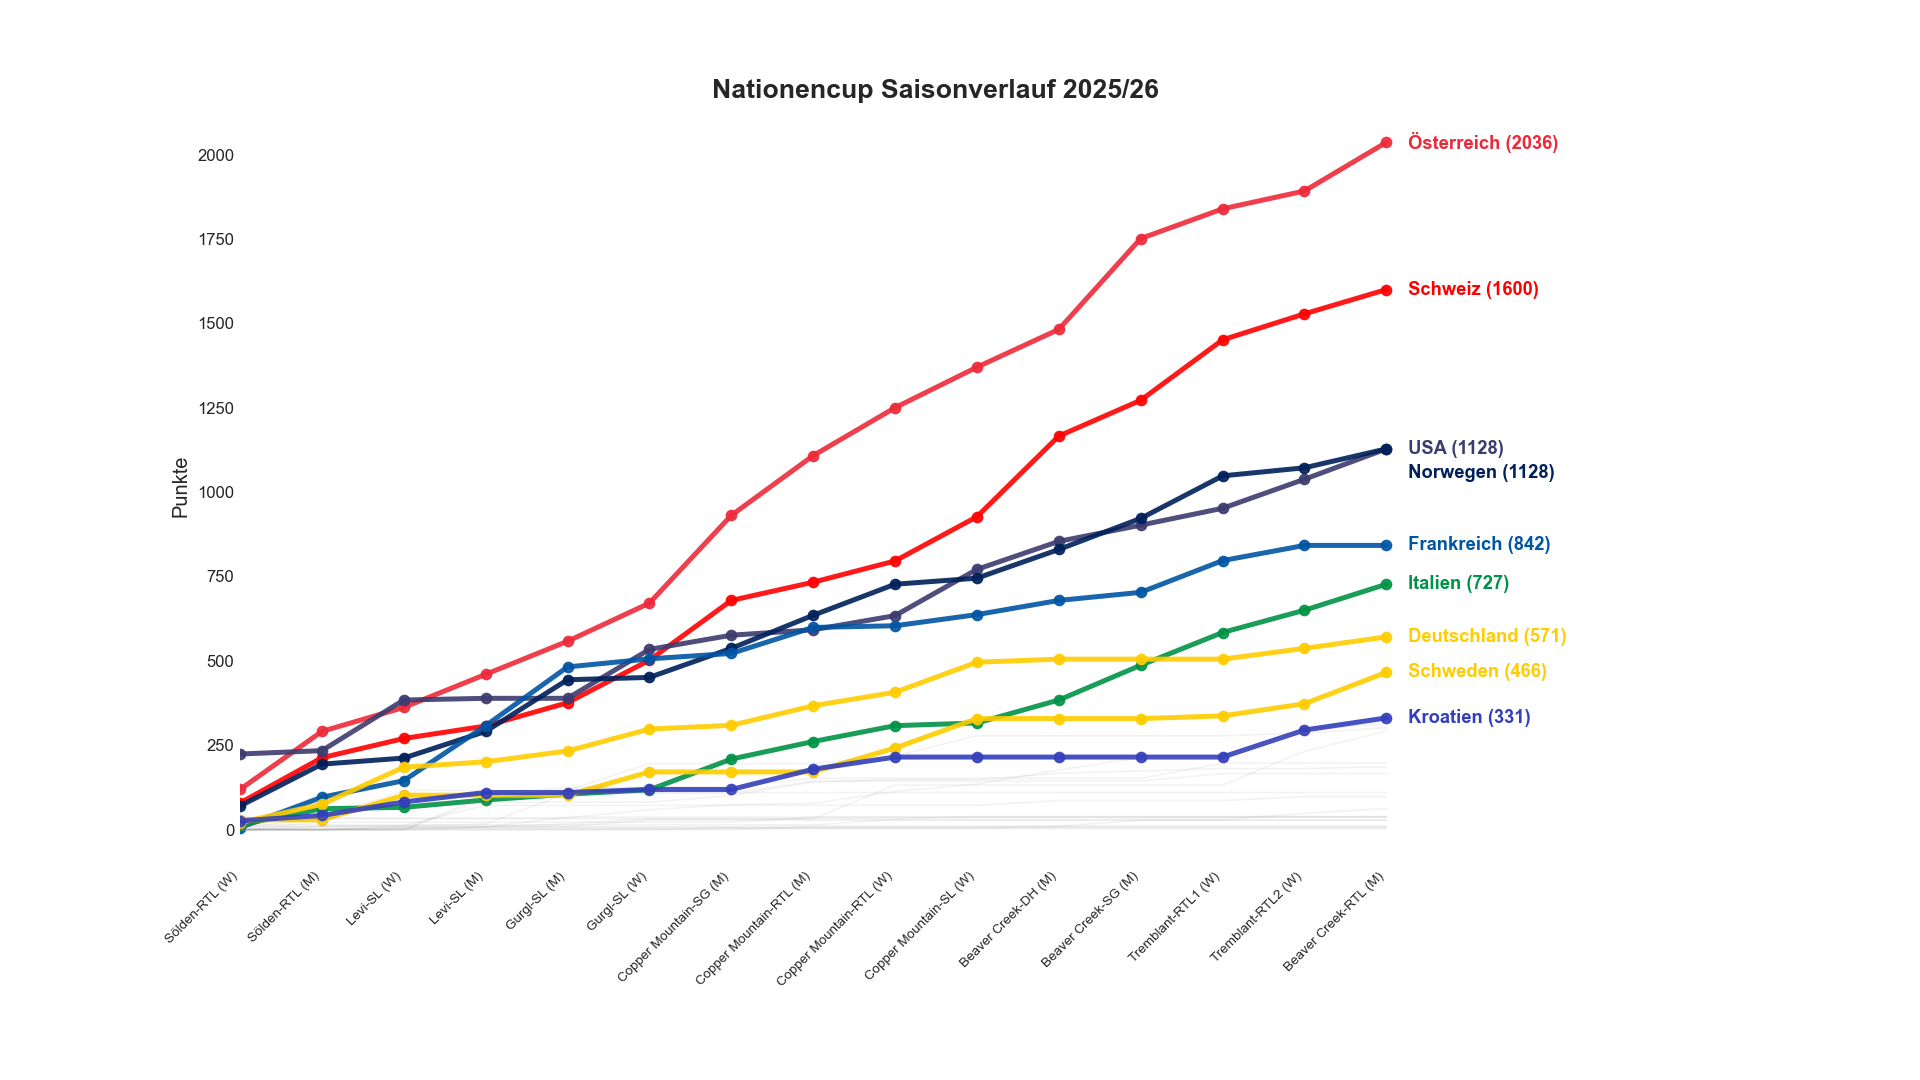
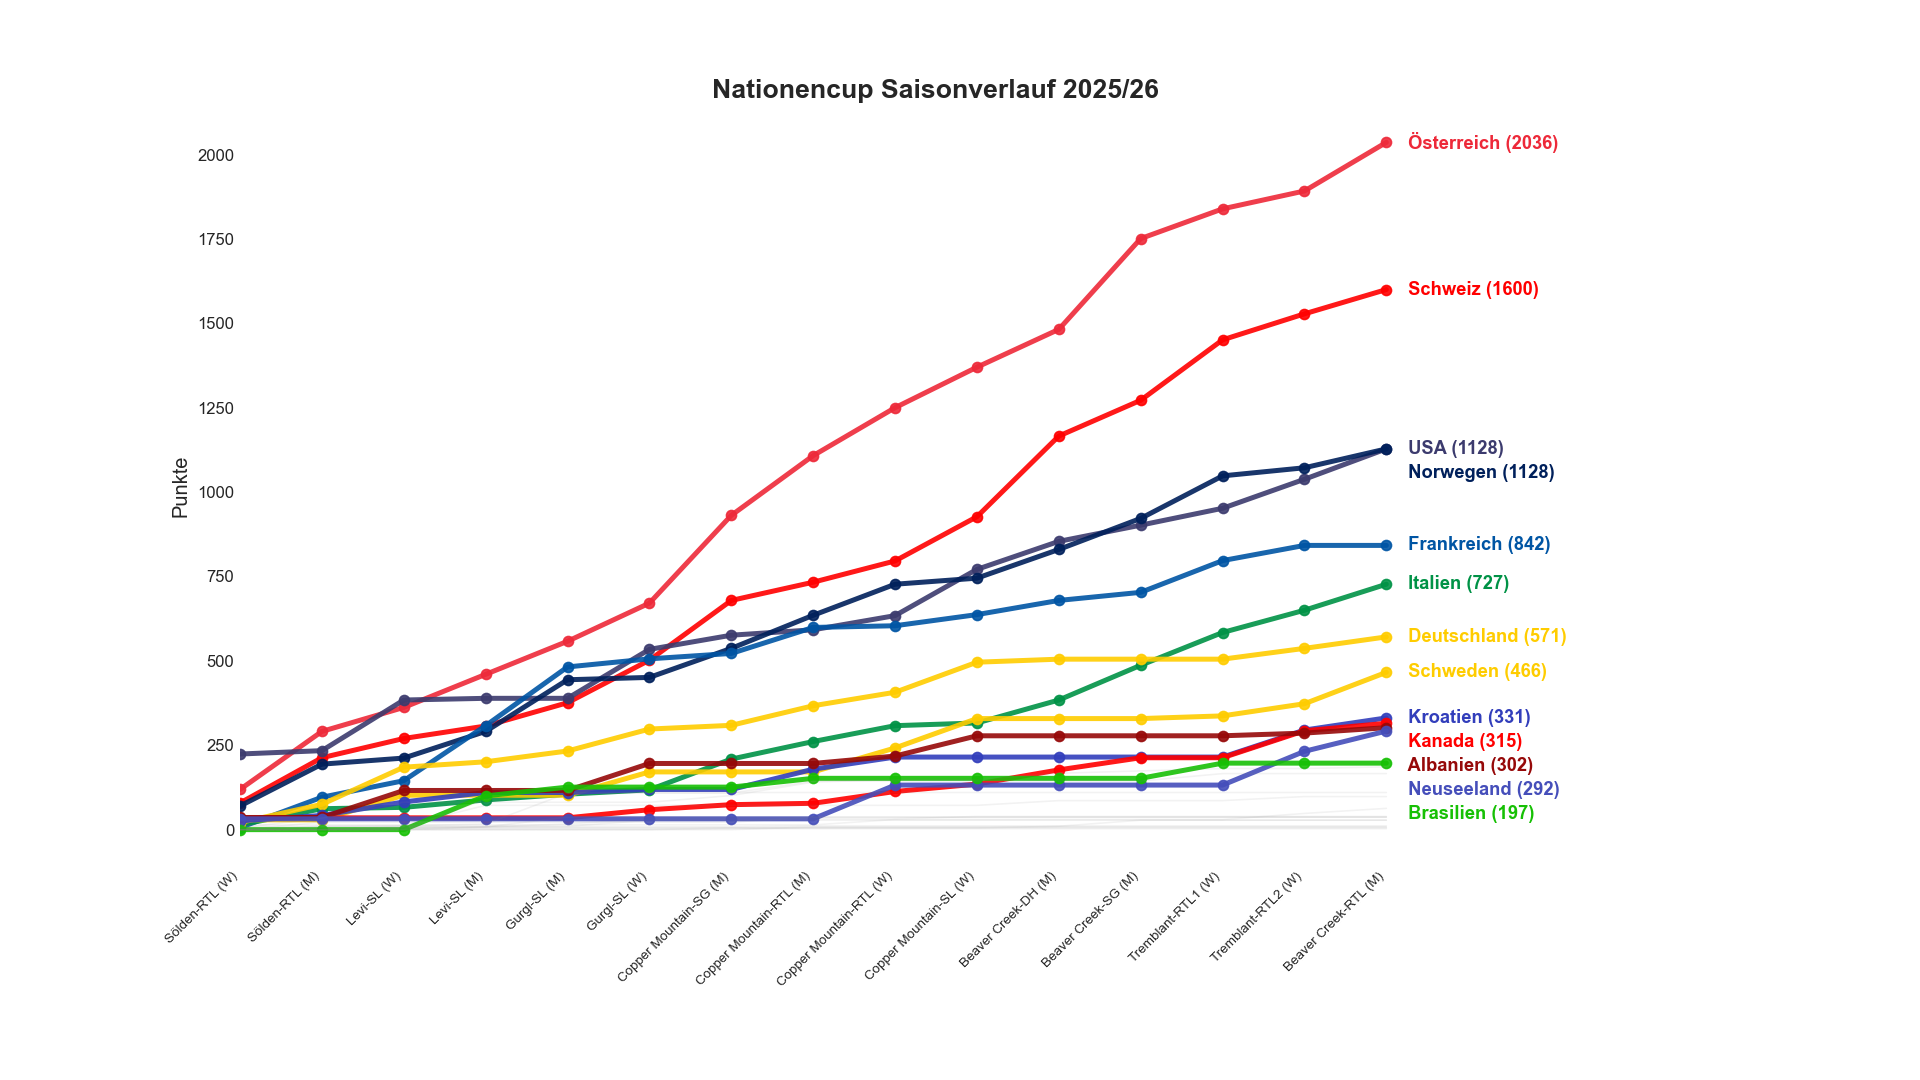
Liste an wichtigen Nationen synchronisieren mit den einzufärbenden.

Changed region(s): [[0.125, 0.6722, 0.8125, 0.7944]]

diff --git a/ski_nationencup_25-26.py b/ski_nationencup_25-26.py
@@ -63,7 +63,7 @@ RACE_ID_TO_NAME = {
 }
 
 # Liste der Nationen, die beschriftet werden sollen (Namen müssen zum Mapping oben passen)
-wichtige = ["Österreich", "Schweiz", "Norwegen", "Frankreich", "USA", "Deutschland", "Italien", "Schweden", "Kroatien"]
+wichtige = ["Österreich", "Schweiz", "Norwegen", "Frankreich", "USA", "Deutschland", "Italien", "Schweden", "Kroatien", "Kanada", "Albanien", "Neuseeland", "Brasilien"]
 
 def update_wallpaper():
     # print("Lese Excel Daten...", end="")
